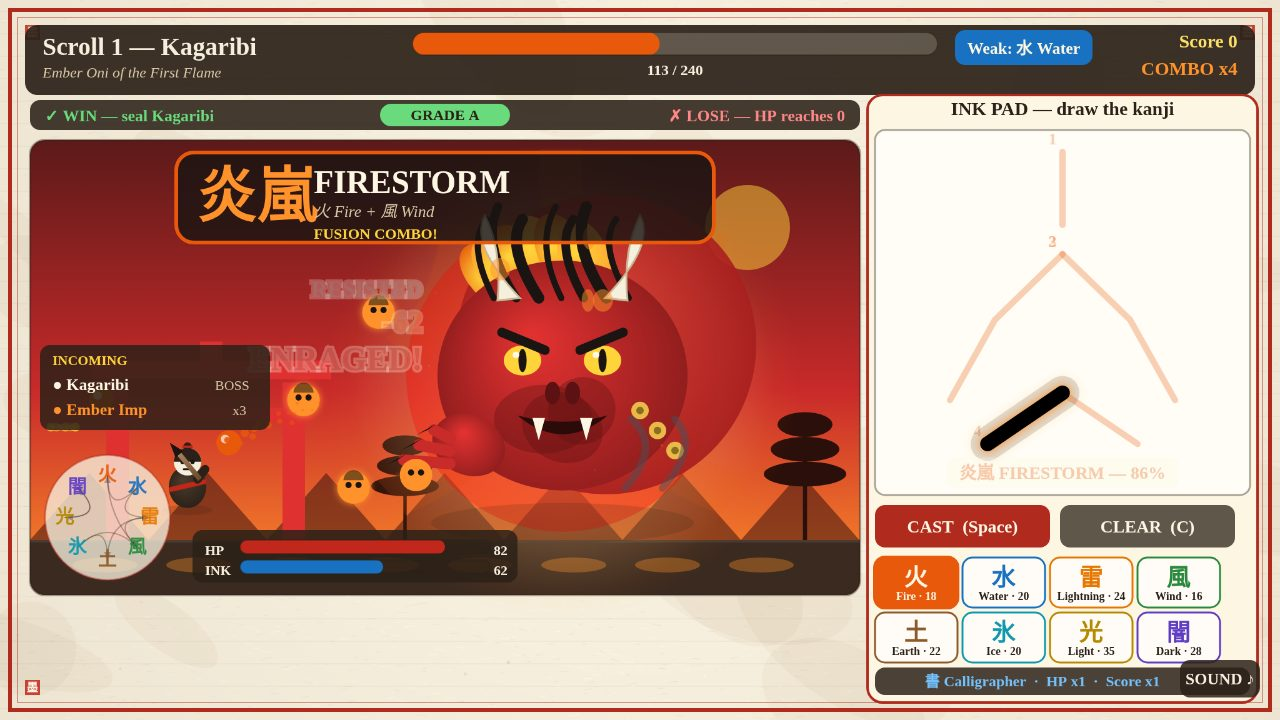
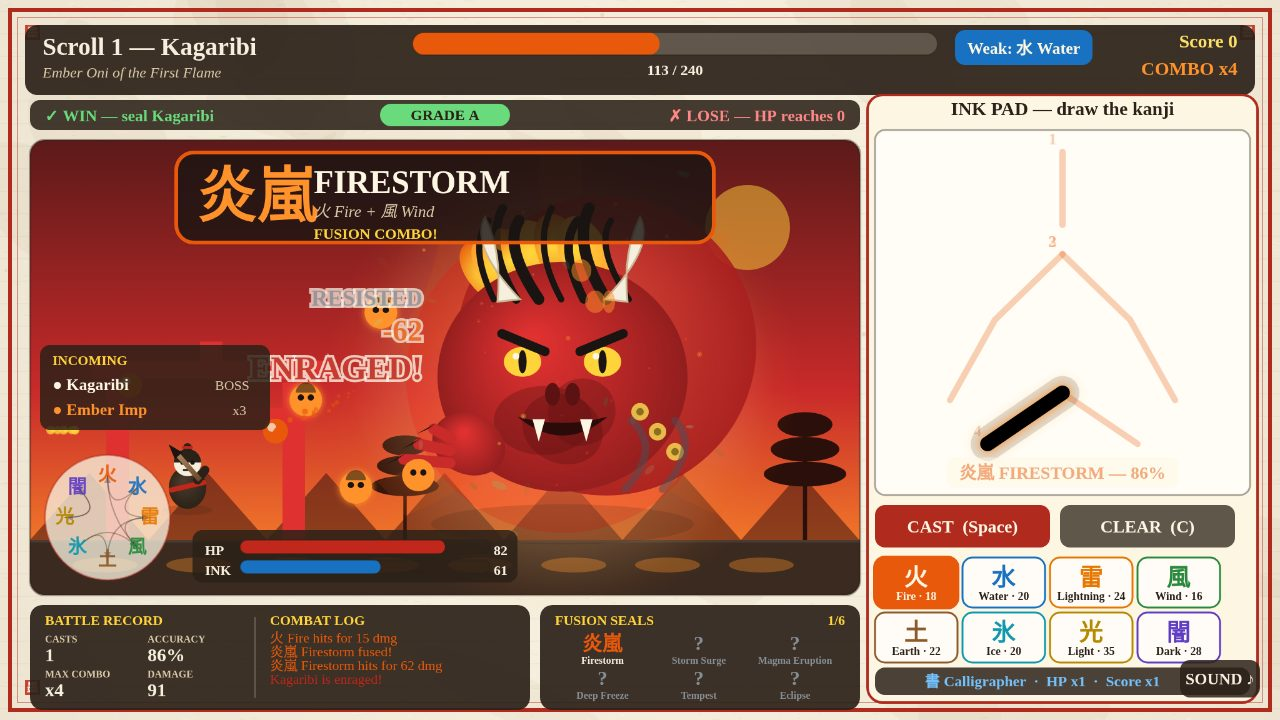
Round 3: fill the gap below the arena with a live battle record and fusion seals
The strip below the combat arena was empty paper. It now carries one
tidy dashboard row, aligned to the arena above and clear of the ink pad:

- BATTLE RECORD (left): live stats from c.stats (casts, accuracy, max
  combo, damage) beside a scrolling combat log of the last 5 real
  events, recorded at the event sites: spell hits, fusion triggers,
  boss enrage, damage taken, the seal. A dead boss takes no more hits,
  so spells still in flight never pad the log.
- FUSION SEALS (right): all six combos in two rows of three, discovered
  ones lit in their combo color with kanji + name, the rest greyed
  with a question mark, plus a discovered count.

Smoke tests: 71 checks pass (8 new: log records real events, log caps
at 5, stats update, a fused combo lights its seal, damage taken is
logged, and the row geometry tiles exactly below the arena).

diff --git a/game/src/combat.js b/game/src/combat.js
@@ -3,7 +3,7 @@
 // cast elemental spells. Bosses have distinct attack patterns, phases and a
 // weakness; spells interact with the elemental wheel, combos and ink.
 
-import { ARENA, BANNER, BOSSES, CAST_PAUSE_MS, COMBO, COMBOS, DIFFICULTY_BY_ID, ELEMENTS, ELEMENT_BY_ID, INK, MINIONS, PAD, PERFECT_THRESHOLD, PLAYER, STRONG_AGAINST, WINLOSE_STRIP, comboPartner, combosFrom, effectiveness, findCombo } from './config.js';
+import { ARENA, BANNER, BATTLE_RECORD_PANEL, BOSSES, CAST_PAUSE_MS, COMBO, COMBOS, DIFFICULTY_BY_ID, ELEMENTS, ELEMENT_BY_ID, FUSION_SEALS_PANEL, INK, MINIONS, PAD, PERFECT_THRESHOLD, PLAYER, STRONG_AGAINST, WINLOSE_STRIP, comboPartner, combosFrom, effectiveness, findCombo } from './config.js';
 import { drawBoss, drawBrushStroke, drawPlayer, drawSeal } from './sprites.js';
 import { burst, floatText, makeParticles, ring, spellBurst, trail, updateParticles, drawParticles } from './particles.js';
 import { recognise, isRealStroke } from './strokes.js';
@@ -48,6 +48,12 @@ export function createCombat(scrollIndex, run, hooks = {}) {
     projectiles: [], summons: [], spells: [], telegraphs: [], pools: [],
     particles: makeParticles(),
     stats: { casts: 0, combos: 0, hits: 0, perfects: 0, damage: 0, damageTaken: 0, maxCombo: 0, accuracySum: 0, startTime: 0 },
+    // The bottom row's data: a rolling log of real fight events (kept at
+    // 5, the number of lines the panel shows) and the fusion combos this
+    // profile has discovered so far (seeded from the saved progress; a
+    // combo fused mid-fight joins the set live in castCombo).
+    battleLog: [],
+    discoveredCombos: new Set(run.combosDiscovered ?? []),
     castFeedback: null,
     essenceEarned: 0,
     won: false,
@@ -57,6 +63,16 @@ export function createCombat(scrollIndex, run, hooks = {}) {
 
 function bossPos(c) {
   return { x: c.boss.x + c.boss.knockX, y: c.boss.y };
+}
+
+// The combat log: one line per real fight event, newest at the end, kept
+// at 5 entries (the panel shows exactly 5 lines). Exported so the smoke
+// test can prove the cap. Entries are only ever recorded at the event
+// sites below — never invented.
+export const BATTLE_LOG_MAX = 5;
+export function logBattleEvent(c, text, color) {
+  c.battleLog.push({ text, color });
+  while (c.battleLog.length > BATTLE_LOG_MAX) c.battleLog.shift();
 }
 
 // The dedicated float-text zone: left of the boss, clear of the fusion
@@ -202,6 +218,7 @@ function damagePlayer(c, rawAmount) {
   c.stats.damageTaken += amount;
   c.combo.count = 0;
   c.combo.timer = 0;
+  logBattleEvent(c, `You took ${amount} dmg`, '#ff8787');
   playHurt();
   burst(c.particles, c.player.x, c.player.y, '#c1271b', 12, 140, 4, 0.5);
   if (c.player.hp <= 0) {
@@ -219,6 +236,7 @@ function winFight(c) {
   c.won = true;
   const acc = c.stats.casts > 0 ? c.stats.accuracySum / c.stats.casts : 0;
   c.essenceEarned = 40 + c.scrollIndex * 15 + Math.round(acc * 30) + c.stats.maxCombo * 2;
+  logBattleEvent(c, `${c.def.name} sealed!`, '#ffd43b');
   playSealStamp();
   playVictory();
   burst(c.particles, b.x, b.y, '#c1271b', 40, 260, 6, 1);
@@ -227,12 +245,24 @@ function winFight(c) {
 
 function damageBoss(c, amount, elementId, opts = {}) {
   const boss = c.boss;
+  // Already sealed: a spell still in flight must not pad the damage stat
+  // or the log with hits on a corpse.
+  if (boss.hp <= 0) return 0;
   const eff = opts.eff ?? effectiveness(elementId, c.def.element);
   let dmg = amount * eff * (opts.crit ? 1.5 : 1);
   dmg = Math.round(dmg);
   boss.hp = Math.max(0, boss.hp - dmg);
   c.stats.damage += dmg;
   c.stats.hits += 1;
+  // The log records the hit with its final damage — the fusion's name
+  // when the caller passes a label (a combo landing), else the element.
+  // Tempest's follow-up strikes and the Deep Freeze shatter stay silent,
+  // or one cast would flood the log with five near-identical lines.
+  if (!opts.silent) {
+    const el0 = ELEMENT_BY_ID[elementId];
+    const label = opts.label ?? `${el0.kanji} ${el0.name}`;
+    logBattleEvent(c, `${label} hits for ${dmg} dmg`, opts.labelColor ?? el0.color);
+  }
   const b = bossPos(c);
   const el = ELEMENT_BY_ID[elementId];
   spellBurst(c.particles, b.x, b.y, elementId, 1);
@@ -252,6 +282,7 @@ function damageBoss(c, amount, elementId, opts = {}) {
   }
   c.summons = c.summons.filter((s) => s.hp > 0);
   if (boss.hp <= 0 && c.phase === 'fight') winFight(c);
+  return dmg;
 }
 
 // A fusion combo: two elements cast in sequence inside the fusion window
@@ -298,6 +329,9 @@ function castCombo(c, combo, secondElement, accuracy, perfect) {
   };
   c.rankPoints += 25 + Math.round(accuracy * 10);
   c.lastCast = null;
+  // The seal lights the moment the fusion is cast, and the log records it.
+  c.discoveredCombos.add(combo.id);
+  logBattleEvent(c, `${combo.kanji} ${combo.name} fused!`, combo.color);
   if (c.hooks.onComboDiscovered) c.hooks.onComboDiscovered(combo.id);
   return true;
 }
@@ -362,6 +396,7 @@ function tryAutoCast(c) {
   } else {
     c.ink = Math.max(0, c.ink - INK.fizzleCost);
     c.castFeedback = { text: 'UNCLEAR STROKE — TRY AGAIN', color: '#868e96', timer: 1.2, accuracy: result.accuracy };
+    logBattleEvent(c, 'Unclear stroke. Try again.', '#868e96');
     playFizzle();
   }
 }
@@ -435,6 +470,7 @@ export function updateCombat(c, dt, keys) {
     boss.enraged = true;
     const enrAt = floatZone(c, 24);
     floatText(c.particles, enrAt.x, enrAt.y, 'ENRAGED!', '#c1271b', 26, 'right');
+    logBattleEvent(c, `${c.def.name} is enraged!`, '#c1271b');
   }
   if (boss.knockX !== 0) boss.knockX *= Math.pow(0.02, dt);
   if (Math.abs(boss.knockX) < 1) boss.knockX = 0;
@@ -551,12 +587,13 @@ export function updateCombat(c, dt, keys) {
       const el = s.element;
       if (s.combo) {
         const combo = s.combo;
+        const comboLabel = `${combo.kanji} ${combo.name}`;
         if (combo.id === 'tempest') {
           // Tempest lands as six rapid strikes: one now, five queued.
-          damageBoss(c, Math.round(s.damage / 6), el.id, { crit: s.crit, eff: s.eff });
+          damageBoss(c, Math.round(s.damage / 6), el.id, { crit: s.crit, eff: s.eff, label: comboLabel, labelColor: combo.color });
           c.pendingHits.push({ elementId: 'wind', damage: Math.round(s.damage / 6), left: 5, timer: 0.15, eff: s.eff });
         } else {
-          damageBoss(c, s.damage, el.id, { crit: s.crit, eff: s.eff, fullSplash: combo.id === 'stormsurge' });
+          damageBoss(c, s.damage, el.id, { crit: s.crit, eff: s.eff, fullSplash: combo.id === 'stormsurge', label: comboLabel, labelColor: combo.color });
         }
         // A fusion lands as both elements at once: two flavoured bursts.
         spellBurst(c.particles, s.tx, s.ty, combo.first, 1.2);
@@ -566,7 +603,7 @@ export function updateCombat(c, dt, keys) {
         if (combo.id === 'magma') { c.boss.burnUntil = c.time + 5; c.boss.burnDmg = 4; }
         if (combo.id === 'deepfreeze') {
           c.boss.frozenUntil = c.time + 7;
-          damageBoss(c, 30, 'ice', { crit: false, eff: 1 });
+          damageBoss(c, 30, 'ice', { crit: false, eff: 1, silent: true });
           const shAt = floatZone(c, 52);
           floatText(c.particles, shAt.x, shAt.y, 'SHATTER!', '#66d9e8', 24, 'right');
         }
@@ -597,7 +634,7 @@ export function updateCombat(c, dt, keys) {
       h.timer = 0.15;
       h.left -= 1;
       const b2 = bossPos(c);
-      damageBoss(c, h.damage, h.elementId, { crit: false, eff: h.eff });
+      damageBoss(c, h.damage, h.elementId, { crit: false, eff: h.eff, silent: true });
       burst(c.particles, b2.x, b2.y, '#ffd43b', 8, 160, 4, 0.4);
     }
   }
@@ -1142,6 +1179,91 @@ function drawArenaBackground(ctx, c, time) {
   ctx.stroke();
 }
 
+// --- The bottom row: BATTLE RECORD + FUSION SEALS. The strip below the
+// arena (y 484..568) used to be empty paper; it now carries the live
+// fight record and the discovered fusion seals as one tidy dashboard:
+// two panels on a fixed grid, aligned columns, generous padding, nothing
+// overlapping. The stats read straight from c.stats (the same numbers
+// the victory screen reports); the log shows the last 5 real events.
+function drawBottomRow(ctx, c) {
+  const rec = BATTLE_RECORD_PANEL;
+  const seals = FUSION_SEALS_PANEL;
+  // Panel A: BATTLE RECORD — live stats on the left, the combat log on
+  // the right, split by a thin divider.
+  ctx.fillStyle = 'rgba(43, 33, 24, 0.92)';
+  ctx.beginPath();
+  ctx.roundRect(rec.x, rec.y, rec.w, rec.h, 10);
+  ctx.fill();
+  ctx.textAlign = 'left';
+  ctx.fillStyle = '#ffd43b';
+  ctx.font = '700 11px Georgia, serif';
+  ctx.fillText('BATTLE RECORD', rec.x + 12, rec.y + 16);
+  ctx.fillText('COMBAT LOG', rec.x + 192, rec.y + 16);
+  const acc = c.stats.casts > 0 ? Math.round((c.stats.accuracySum / c.stats.casts) * 100) : 0;
+  const statCells = [
+    { label: 'CASTS', value: String(c.stats.casts) },
+    { label: 'ACCURACY', value: `${acc}%` },
+    { label: 'MAX COMBO', value: `x${c.stats.maxCombo}` },
+    { label: 'DAMAGE', value: String(c.stats.damage) },
+  ];
+  statCells.forEach((cell, i) => {
+    const cx = rec.x + 12 + (i % 2) * 82;
+    const ly = rec.y + 30 + Math.floor(i / 2) * 28;
+    ctx.fillStyle = '#d9c9a8';
+    ctx.font = '700 8px Georgia, serif';
+    ctx.fillText(cell.label, cx, ly);
+    ctx.fillStyle = '#f6efdd';
+    ctx.font = '700 15px Georgia, serif';
+    ctx.fillText(cell.value, cx, ly + 15);
+  });
+  ctx.strokeStyle = 'rgba(246, 239, 221, 0.25)';
+  ctx.lineWidth = 1;
+  ctx.beginPath();
+  ctx.moveTo(rec.x + 180, rec.y + 10);
+  ctx.lineTo(rec.x + 180, rec.y + rec.h - 10);
+  ctx.stroke();
+  const entries = c.battleLog.slice(-BATTLE_LOG_MAX);
+  if (entries.length === 0) {
+    ctx.fillStyle = '#868e96';
+    ctx.font = 'italic 11px Georgia, serif';
+    ctx.fillText('The fight begins. Draw your first kanji.', rec.x + 192, rec.y + 34);
+  } else {
+    ctx.font = '11px Georgia, serif';
+    entries.forEach((e, i) => {
+      ctx.fillStyle = e.color;
+      ctx.fillText(e.text, rec.x + 192, rec.y + 30 + i * 11);
+    });
+  }
+  // Panel B: FUSION SEALS — all six combos in two rows of three.
+  // Discovered ones are lit in their combo color with kanji + name; the
+  // rest stay greyed with a question mark. The count sits top-right.
+  ctx.fillStyle = 'rgba(43, 33, 24, 0.92)';
+  ctx.beginPath();
+  ctx.roundRect(seals.x, seals.y, seals.w, seals.h, 10);
+  ctx.fill();
+  ctx.fillStyle = '#ffd43b';
+  ctx.font = '700 11px Georgia, serif';
+  ctx.textAlign = 'left';
+  ctx.fillText('FUSION SEALS', seals.x + 12, seals.y + 16);
+  ctx.textAlign = 'right';
+  ctx.fillText(`${c.discoveredCombos.size}/6`, seals.x + seals.w - 12, seals.y + 16);
+  ctx.textAlign = 'center';
+  COMBOS.forEach((combo, i) => {
+    const col = i % 3;
+    const row = Math.floor(i / 3);
+    const cx = seals.x + 12 + col * 77 + 38;
+    const ky = seals.y + 36 + row * 28;
+    const found = c.discoveredCombos.has(combo.id);
+    ctx.fillStyle = found ? combo.color : '#868e96';
+    ctx.font = '700 16px "Noto Serif JP", serif';
+    ctx.fillText(found ? combo.kanji : '?', cx, ky);
+    ctx.fillStyle = found ? '#f6efdd' : '#868e96';
+    ctx.font = '700 8px Georgia, serif';
+    ctx.fillText(combo.name, cx, ky + 11);
+  });
+  ctx.textAlign = 'left';
+}
+
 export function drawCombat(ctx, c, time) {
   const def = c.def;
   const el = ELEMENT_BY_ID[def.element];
@@ -1568,6 +1690,10 @@ export function drawCombat(ctx, c, time) {
   ctx.textAlign = 'center';
   ctx.fillText(`${c.difficulty.kanji} ${c.difficulty.name}  ·  HP x${c.difficulty.bossHpMul}  ·  Score x${c.difficulty.scoreMul}`, PAD.x + PAD.w / 2 - 16, PAD.y + PAD.h + 153);
   ctx.textAlign = 'left';
+  // The bottom row: the live battle record and the fusion seals, filling
+  // the strip below the arena. Drawn before the intro/win/lose overlays,
+  // so those dim it along with the rest of the fight.
+  drawBottomRow(ctx, c);
   // Intro card.
   if (c.phase === 'intro') {
     ctx.save();

diff --git a/game/src/config.js b/game/src/config.js
@@ -17,6 +17,14 @@ export const ARENA = { x: 24, y: 112, w: 664, h: 364 };
 export const WINLOSE_STRIP = { x: 24, y: 80, w: 664, h: 24 };
 export const BANNER = { w: 430, h: 72, cy: 158 }; // centred on the arena, y 122..194
 
+// The bottom row below the arena (y 484..568): the live fight record and
+// the discovered fusion seals. It spans exactly the arena's width and
+// stops 8px short of the screen edge; the ink pad panel owns the right
+// side, so the row never crosses x 688.
+export const BOTTOM_ROW = { x: 24, y: 484, w: 664, h: 84 };
+export const BATTLE_RECORD_PANEL = { x: 24, y: 484, w: 400, h: 84 };
+export const FUSION_SEALS_PANEL = { x: 432, y: 484, w: 256, h: 84 };
+
 // Boss minions: small spirits per element that drift toward the painter.
 export const MINIONS = {
   fire: { name: 'Ember Imp', color: '#ff922b' },

diff --git a/game/src/main.js b/game/src/main.js
@@ -101,6 +101,8 @@ function startFight(scrollIndex) {
   g.run.scrollIndex = scrollIndex;
   g.runStarted = true;
   g.newFeats = [];
+  // The fight's seal strip reads the combos this profile has discovered.
+  g.run.combosDiscovered = g.progress.combosDiscovered;
   g.combat = createCombat(scrollIndex, g.run, {
     // recordComboDiscovered mutates + saves in place and returns a boolean;
     // it is not an assignment.

diff --git a/game/src/shots.js b/game/src/shots.js
@@ -16,6 +16,9 @@ function scaledStrokes(elementId, count) {
 }
 
 function stageFight(g, scrollIndex, opts) {
+  // The staged fight shows the profile's discovered seals, same as a
+  // real fight started from the menu.
+  g.run.combosDiscovered = g.progress.combosDiscovered;
   const combat = createCombat(scrollIndex, g.run);
   combat.phase = 'fight';
   combat.stats.startTime = 0;
